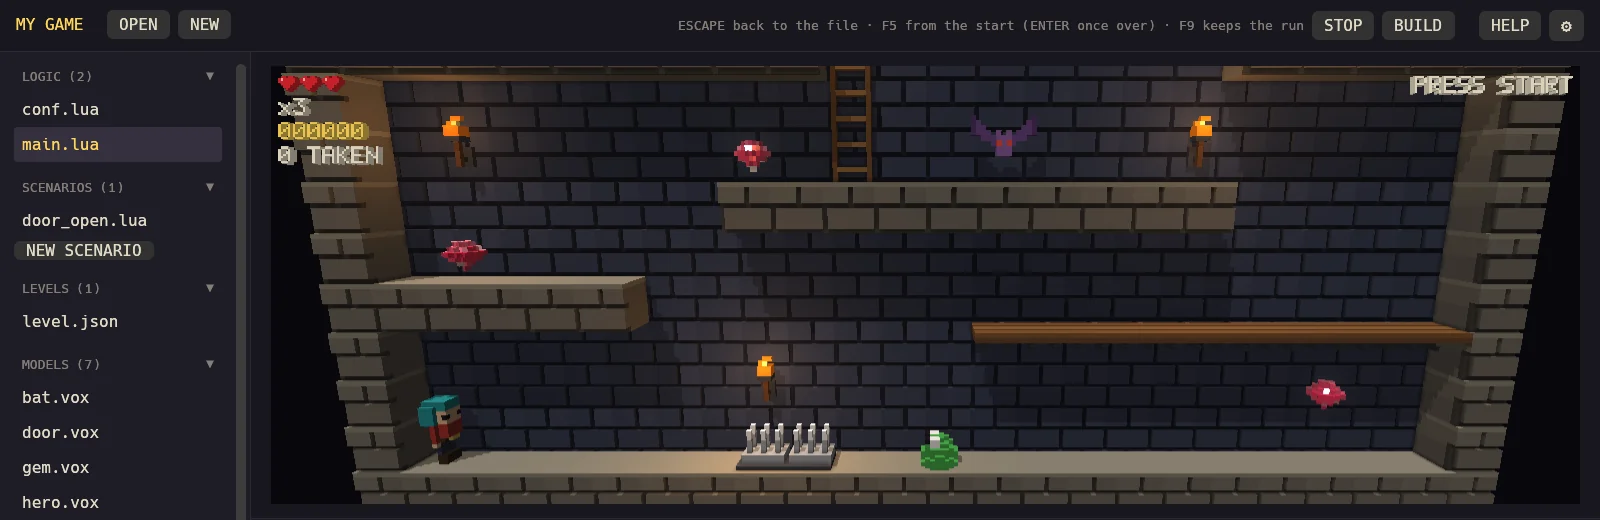
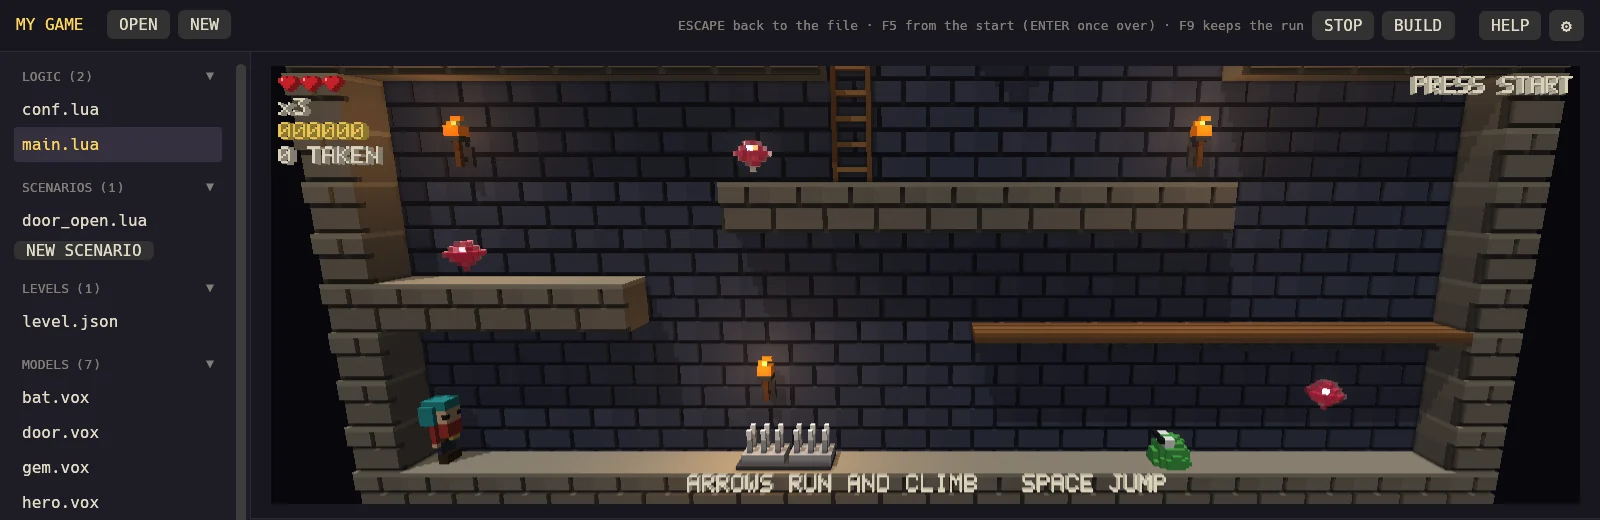
The download's three links one below another; the quick start says its picture is the template

diff --git a/de/quickstart.html b/de/quickstart.html
@@ -48,7 +48,7 @@
       <li><h2>Voxcade starten</h2><p>Doppelklick auf <code>voxcade</code> im Voxcade-Ordner (unter Linux <code>start-voxcade.sh</code>). Der Launcher öffnet sich, mit den Spielen und darunter NEW GAME.</p></li>
       <li><h2>Ein neues Spiel</h2><p>Wähle NEW GAME, tipp einen Namen, wähl JUMP &amp; RUN und dann CREATE. Dein Spiel öffnet sich in der IDE, der Werkstatt, in der Spiele entstehen. Es ist ein eigener Ordner, in <code>Voxcade</code> in deinem Benutzerordner (das Zahnrad oben rechts ändert, wo).</p></li>
       <li><h2>Spielen</h2><p>Drück PLAY oben rechts. Das Spiel zeigt seine Tasten: Die Pfeiltasten laufen, die Leertaste springt. Lande auf dem Schleim, sammle die Edelsteine, raus durch die Tür. Escape bringt dich zurück zum Code.</p>
-        <figure class="shot"><img src="/assets/img/quickstart-play.webp" width="1600" height="520" loading="lazy" alt="Die IDE mit dem neuen Jump and Run im Hauptbereich, links seine Dateien."></figure></li>
+        <figure class="shot"><img src="/assets/img/quickstart-play.webp" width="1600" height="520" loading="lazy" alt="Die IDE mit dem neuen Jump and Run im Hauptbereich, links seine Dateien."><figcaption>Dein neues Spiel: Die Vorlage JUMP &amp; RUN ist ein Burgraum mit Held, Schleim, Fledermaus und Edelsteinen, zum Verändern.</figcaption></figure></li>
       <li><h2>Eine Regel ändern</h2><p>Links enthält <code>main.lua</code> die Regeln des Spiels. Weit oben steht, wie hoch der Held von einem Gegner abprallt. Mach aus 50 eine 150: Die IDE speichert eine Sekunde später von selbst. Drück wieder PLAY: Das Spiel geht weiter, wo es war, mit der neuen Regel. Spring auf den Schleim und sieh selbst.</p>
         <figure class="shot"><img src="/assets/img/quickstart-code.webp" width="1600" height="520" loading="lazy" alt="main.lua in der IDE geöffnet, oben die Regeln."></figure>
 <pre><code>local BOUNCE = 50        -- how high a hero bounces off an enemy, voxels</code></pre>

diff --git a/quickstart.html b/quickstart.html
@@ -48,7 +48,7 @@
       <li><h2>Start Voxcade</h2><p>Double-click <code>voxcade</code> in the Voxcade folder (<code>start-voxcade.sh</code> on Linux). The launcher opens, with the games to play and, below them, NEW GAME.</p></li>
       <li><h2>A new game</h2><p>Choose NEW GAME, type a name, pick JUMP &amp; RUN and choose CREATE. Your game opens in the IDE, the workshop where games are made. It is a folder of its own, in <code>Voxcade</code> in your home folder (the gear at the top right changes where).</p></li>
       <li><h2>Play it</h2><p>Press PLAY at the top right. The game shows its keys: the arrows run, Space jumps. Land on the slime, take the gems, out through the door. Escape takes you back to the code.</p>
-        <figure class="shot"><img src="/assets/img/quickstart-play.webp" width="1600" height="520" loading="lazy" alt="The IDE with the new jump and run playing in the main area, its files on the left."></figure></li>
+        <figure class="shot"><img src="/assets/img/quickstart-play.webp" width="1600" height="520" loading="lazy" alt="The IDE with the new jump and run playing in the main area, its files on the left."><figcaption>Your new game: the JUMP &amp; RUN template is a castle room with a hero, a slime, a bat and gems, yours to change.</figcaption></figure></li>
       <li><h2>Change a rule</h2><p>On the left, <code>main.lua</code> holds the game&#39;s rules. Near the top stands how high the hero bounces off an enemy. Change 50 to 150: the IDE saves by itself a second later. Press PLAY again: the game goes on where it was, with the new rule. Jump on the slime and see.</p>
         <figure class="shot"><img src="/assets/img/quickstart-code.webp" width="1600" height="520" loading="lazy" alt="main.lua open in the IDE, the rules at the top."></figure>
 <pre><code>local BOUNCE = 50        -- how high a hero bounces off an enemy, voxels</code></pre>

diff --git a/src/quickstart.html b/src/quickstart.html
@@ -33,7 +33,7 @@
       <li><h2>{{quick.open_title}}</h2><p>{{quick.open_text}}</p></li>
       <li><h2>{{quick.new_title}}</h2><p>{{quick.new_text}}</p></li>
       <li><h2>{{quick.play_title}}</h2><p>{{quick.play_text}}</p>
-        <figure class="shot"><img src="/assets/img/quickstart-play.webp" width="1600" height="520" loading="lazy" alt="{{quick.play_alt}}"></figure></li>
+        <figure class="shot"><img src="/assets/img/quickstart-play.webp" width="1600" height="520" loading="lazy" alt="{{quick.play_alt}}"><figcaption>{{quick.play_caption}}</figcaption></figure></li>
       <li><h2>{{quick.change_title}}</h2><p>{{quick.change_text}}</p>
         <figure class="shot"><img src="/assets/img/quickstart-code.webp" width="1600" height="520" loading="lazy" alt="{{quick.change_alt}}"></figure>
 <pre><code>local BOUNCE = 50        -- how high a hero bounces off an enemy, voxels</code></pre>

diff --git a/assets/site.css b/assets/site.css
@@ -193,7 +193,7 @@ pre .o { color: var(--muted); }
 .button:hover, .button:focus-visible { background: var(--red); color: var(--cream); outline: none; }
 .button:focus-visible { box-shadow: 0 0 0 3px var(--bg), 0 0 0 5px var(--cream); }
 .download-file { font-size: 14px; color: var(--muted); margin: 10px 0 0; overflow-wrap: anywhere; }
-.next-steps { list-style: none; padding: 0; margin: 32px 0 0; display: flex; flex-wrap: wrap; gap: 12px 36px; }
+.next-steps { list-style: none; padding: 0; margin: 32px 0 0; display: flex; flex-direction: column; gap: 12px; }
 .next-steps a, .more a { font: 20px/1.4 var(--pixel); text-transform: uppercase; color: var(--cream); text-decoration: none; }
 .next-steps a::before, .more a::before { content: "> "; color: var(--orange); }
 .next-steps a:hover, .more a:hover { color: var(--red); }
